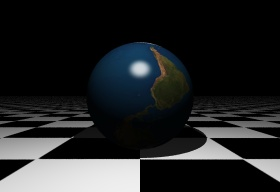
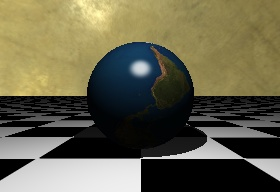
feat: add first version of environment map

diff --git a/raytrace.py b/raytrace.py
@@ -1,13 +1,15 @@
 import numpy as np
 # Local Modules
 from constants import MAX_COLOR_VALUE, RGB_CHANNELS
+from env_map import env_map
 import material
-from object import Sphere, Plane
 import shaders
+from texture import ImageTexture
 import utils
 
 DARK_VALUE = np.array([15, 15, 15], dtype=float) / MAX_COLOR_VALUE
 LIGHT_VALUE = np.array([240, 240, 240], dtype=float) / MAX_COLOR_VALUE
+ENV_MAP_TEXTURE = ImageTexture("textures/garage_1k.jpg")
 
 
 def get_dark_and_light(ph, obj):
@@ -137,4 +139,7 @@ def raytrace(ray, camera_pos, objects, lights):
         return final_color.astype(np.uint8)
     # No hit
     else:
-        return np.array([0, 0, 0], dtype=np.uint8)
+        # Use unit director vector of ray for the Env Map
+        u, v = env_map(ray.nr)
+        color = ENV_MAP_TEXTURE.get_color(u, v)
+        return color

diff --git a/env_map.py b/env_map.py
@@ -1,0 +1,12 @@
+import numpy as np
+
+
+def env_map(n):
+    x, y, z = n
+    phi = np.arccos(z)
+    theta = np.arccos((y / np.sin(phi)).round(4))
+    u = theta / (2 * np.pi)
+    v = phi / np.pi
+    if x < 0:
+        u = 1 - u
+    return u, v
